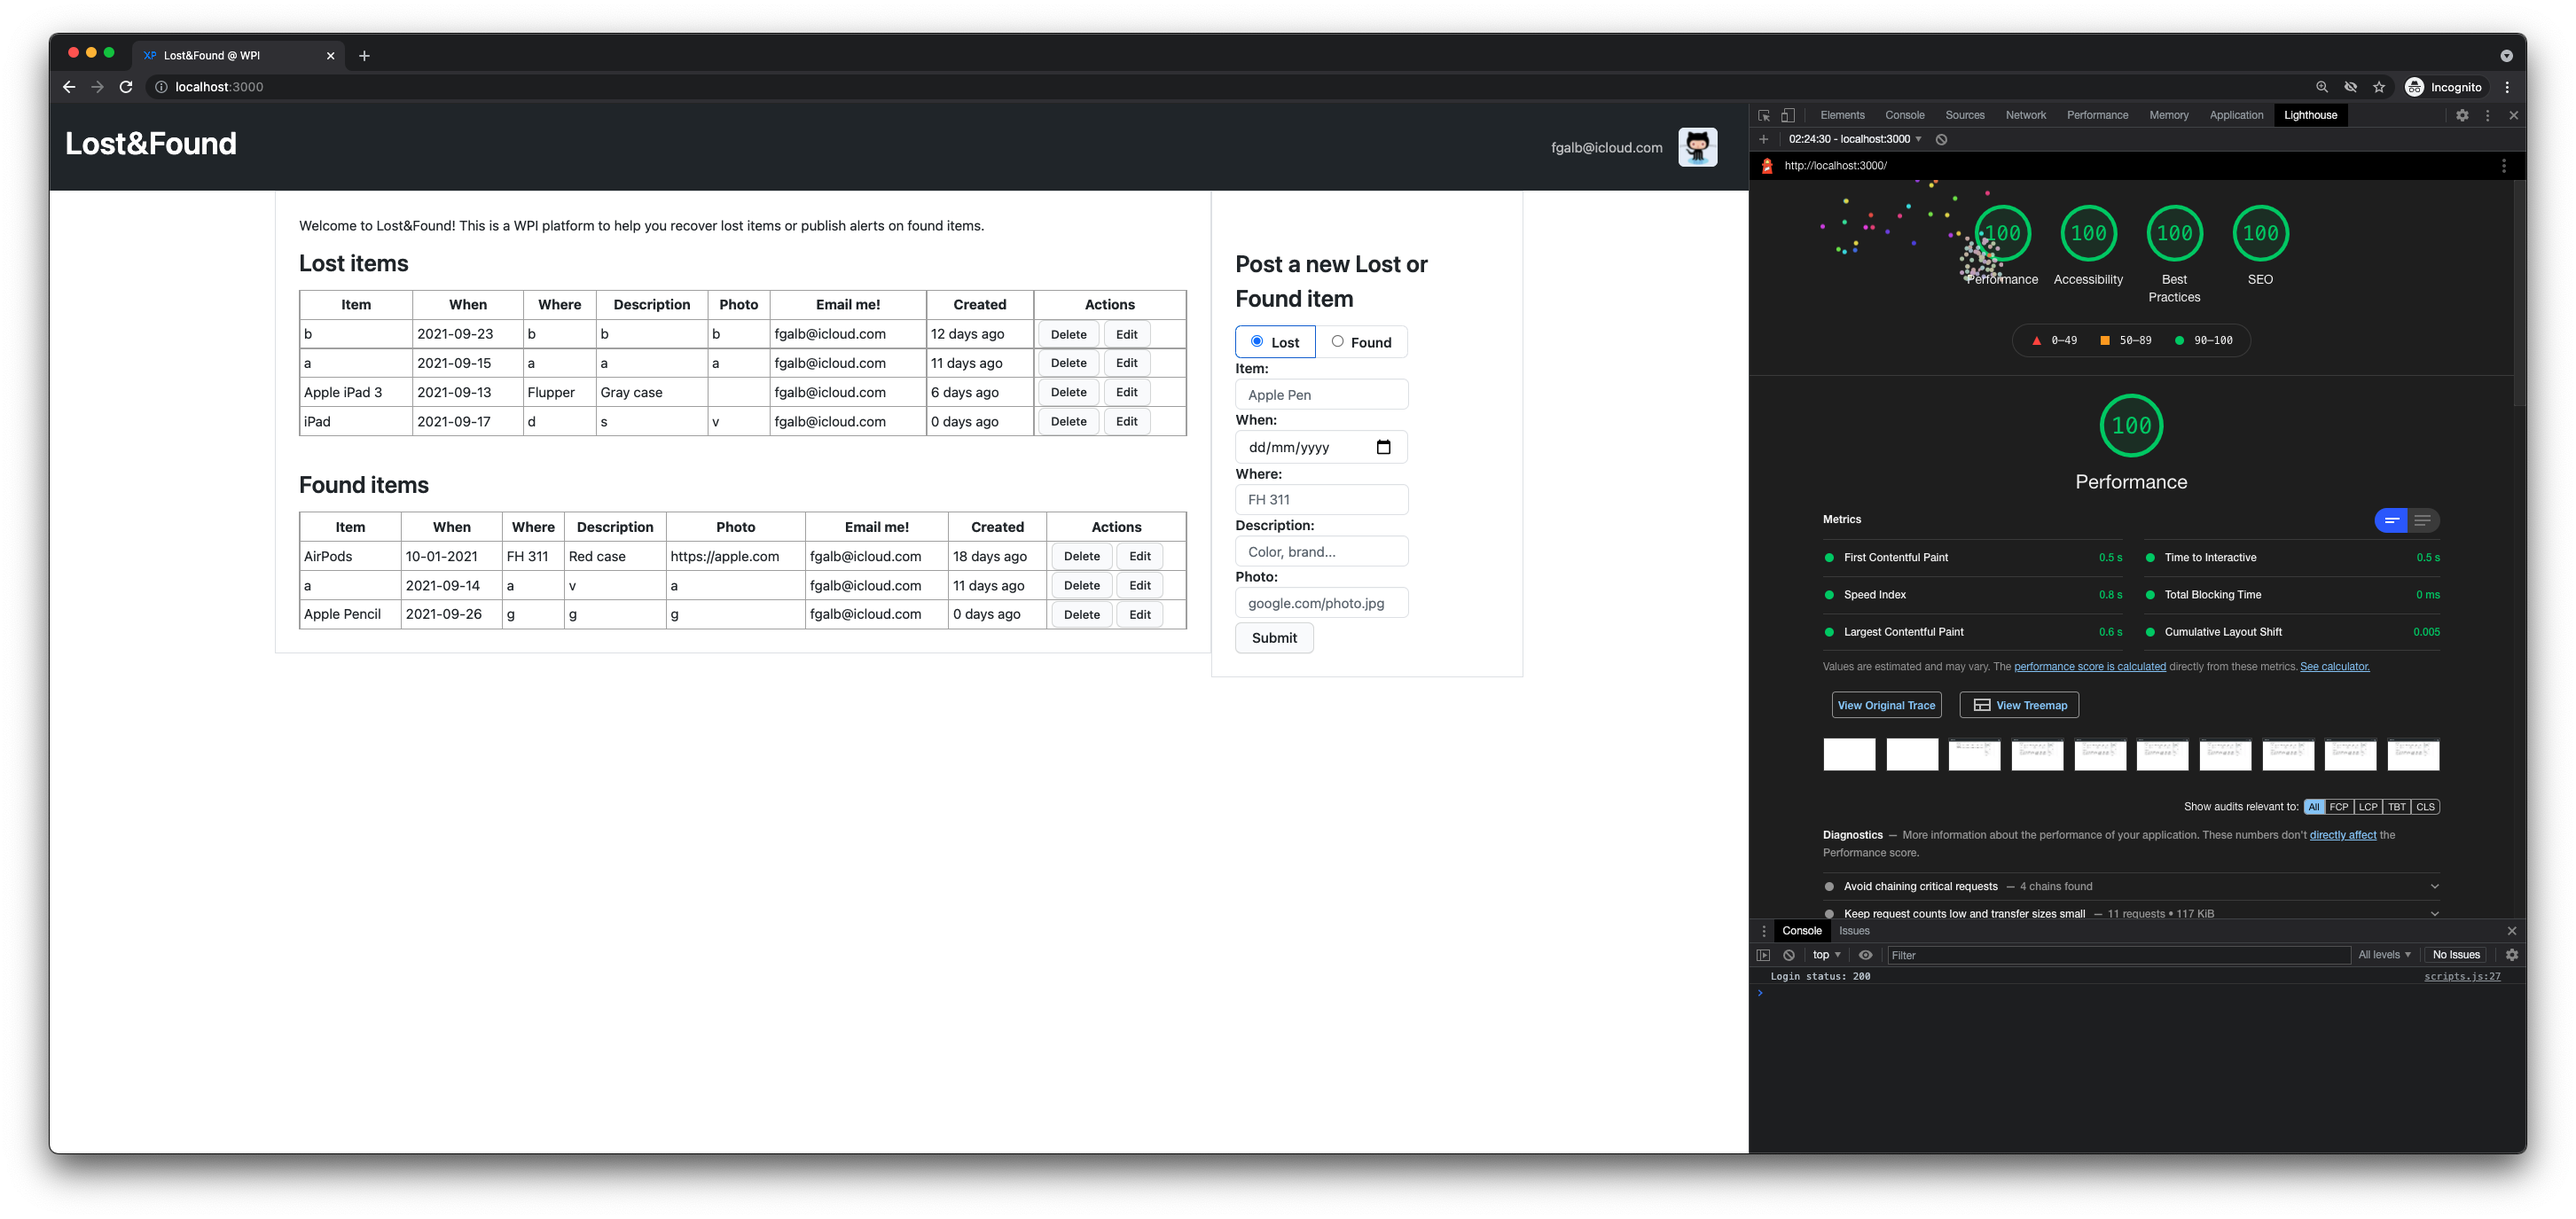
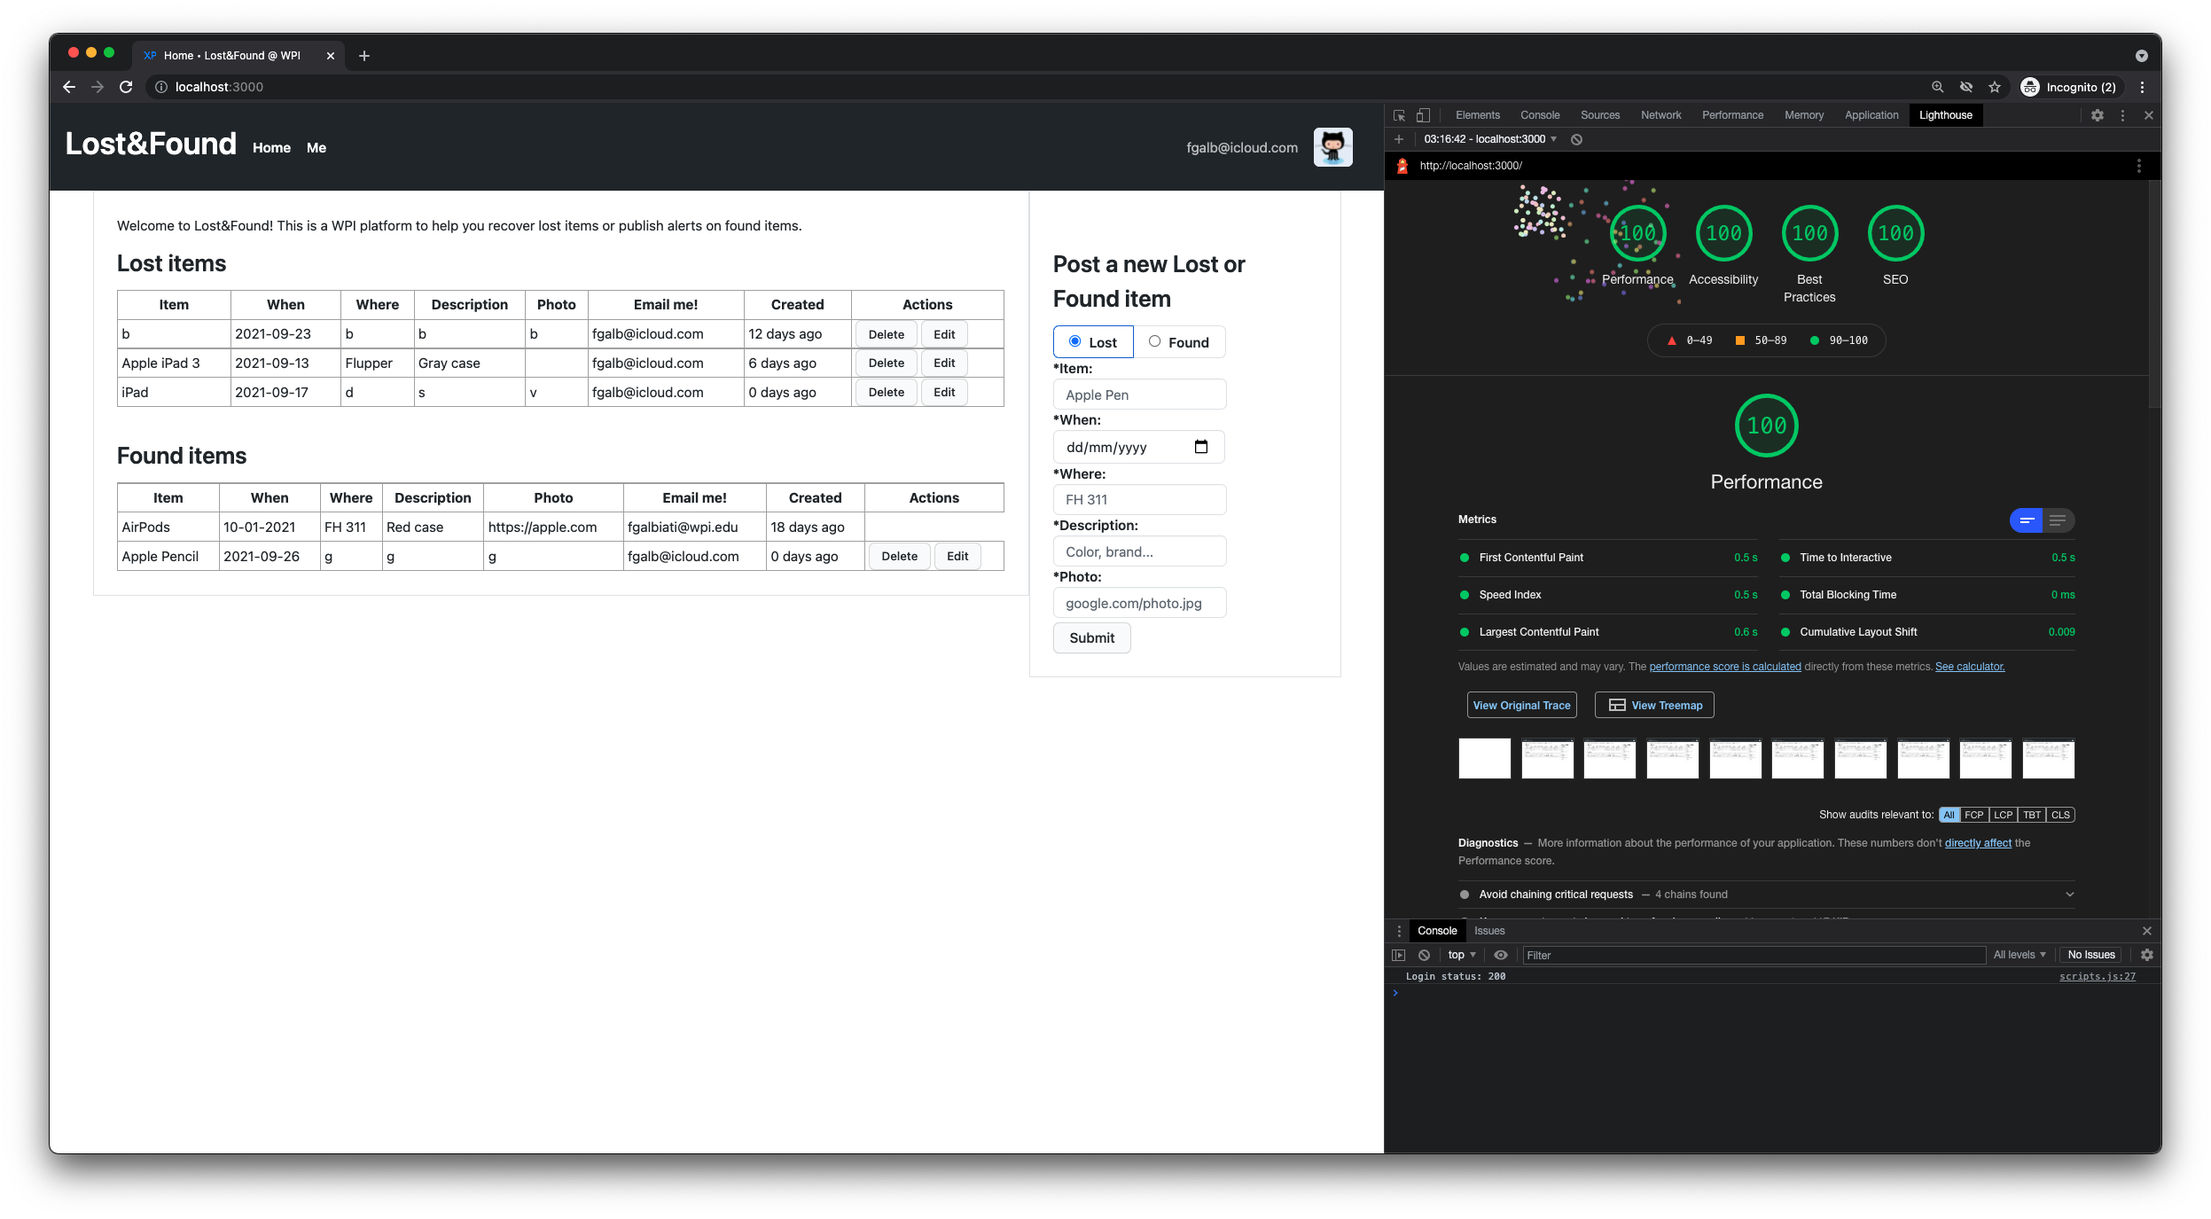
Updated readme, added /me page, and confirmed lighthouse

diff --git a/private/yourdata.html b/private/yourdata.html
@@ -1,0 +1,72 @@
+<!doctype html>
+<html lang="en">
+  <head>
+    <title>Home • Lost&Found @ WPI</title>
+    <meta charset="utf-8">
+    <link rel="preconnect" href="https://fonts.googleapis.com"> 
+    <link rel="preconnect" href="https://fonts.gstatic.com" crossorigin> 
+    <link href="https://fonts.googleapis.com/css2?family=Noto+Sans+JP:wght@300&display=swap" rel="stylesheet">
+    <link href="https://unpkg.com/@primer/css@^16.0.0/dist/primer.css" rel="stylesheet" />
+    <link rel="stylesheet" href="css/style.css">
+    <meta name="viewport" content="width=device-width, initial-scale=1">
+    <meta name="description" content="Worcester Polytechnic Institute's Lost and Found 
+                                      platform used to retrieve lost and found items around campus.">
+  </head>
+  <body>
+    <div class="Header">
+      <div class="Header-item">
+        <p class="h1 color-text-inverse">Lost&Found</p>
+      </div>
+      <div class="Header-item">
+        <a href="/" class="Header-link">Home</a>
+      </div>
+      <div class="Header-item">
+        <a href="/me" class="Header-link">Me</a>
+      </div>
+      <div class="Header-item Header-item--full">
+      </div>
+      <div id="username-box" class="Header-item">
+      </div>
+      <div class="Header-item">
+        <img class="avatar" height="40" alt="@octocat" src="https://github.com/octocat.png" width="40">
+      </div>
+    </div>
+    <div class="container-xl clearfix">
+      <div class="col-9 float-left border p-4">
+        <div id="info-section">
+          <p>Below are all the lost and found items created by you.</p>
+          <p id="error-box"></p>
+        </div>
+        <div class="logged-in">
+          <div id="lost-items-section">
+            <p class="h2">Lost items</p>
+            <table id="lostitems">
+              <tr>
+                <th>Item</th>
+                <th>When</th>
+                <th>Where</th>
+                <th>Description</th>
+                <th>Photo Link</th>
+                <th>Email me!</th>
+              </tr>
+            </table>
+          </div>
+          <div id="found-items-section" class="mt-5">
+            <p class="h2">Found items</p>
+            <table id="founditems">
+              <tr>
+                <th>Item</th>
+                <th>When</th>
+                <th>Where</th>
+                <th>Description</th>
+                <th>Photo Link</th>
+                <th>Email me!</th>
+              </tr>
+            </table>
+          </div>
+        </div>
+      </div>
+    </div>
+    <script src="js/scripts2.js"></script>
+  </body>
+</html>

diff --git a/public/js/scripts2.js b/public/js/scripts2.js
@@ -1,0 +1,62 @@
+let loggedInUser = undefined
+
+const getRequest = function(endpoint, data, callback) {
+  fetch( endpoint, {
+    method:'GET',
+    data 
+  })
+  .then( response => response.json())
+  .then( response => callback(response) )
+  return false
+}
+
+function getUserID() {
+  getRequest('/auth/getUserID', {}, (response) => {
+    console.log("Login status: " + response.status)
+    if (response.status === 200) {
+      loggedInUser = response.username
+      document.querySelector('#username-box').innerText = `${loggedInUser}`
+      els = document.querySelectorAll( '.logged-in' )
+      els.forEach(el => el.style.display = 'block')
+      getLostItems()
+      getFoundItems()
+    } else {
+      document.querySelector('#error-box').innerText = "Error! Could not fetch user details!"
+      document.querySelector('#error-box').classList.add('flash', 'mt-3', 'flash-error')
+    }
+  })
+}
+
+function getItems(listname) {
+  getRequest('/api/' + listname, {}, (data) => {
+    let table = ""
+    for (let info of data) {
+        if (info.emailme !== loggedInUser) {
+            continue;
+        }
+        let row = ""
+        row += `<td class="p-1 item">${info.item}</td>`
+        row += `<td class="p-1 when">${info.when}</td>`
+        row += `<td class="p-1 where">${info.where}</td>`
+        row += `<td class="p-1 description">${info.description}</td>`
+        row += `<td class="p-1 photo">${info.photo}</td>`
+        row += `<td class="p-1 emailme">${info.emailme}</td>`
+        row += `<td class="p-1 timestamp">${info.created} days ago</td>`
+        table += `<tr id="${info._id}">${row}</tr>`
+    }
+    let header = '<tr><th class="p-1">Item</th><th class="p-1">When</th><th class="p-1">Where</th><th class="p-1">Description</th><th class="p-1">Photo</th><th class="p-1">Email me!</th><th class="p-1">Created</th></tr>'
+    document.querySelector('#' + listname).innerHTML = header + table
+  })
+}
+
+function getFoundItems() {
+  getItems('founditems')
+}
+
+function getLostItems() {
+  getItems('lostitems')
+}
+
+window.onload = function() {
+  getUserID()
+}

diff --git a/private/main.html b/private/main.html
@@ -17,6 +17,12 @@
       <div class="Header-item">
         <p class="h1 color-text-inverse">Lost&Found</p>
       </div>
+      <div class="Header-item">
+        <a href="/" class="Header-link">Home</a>
+      </div>
+      <div class="Header-item">
+        <a href="/me" class="Header-link">Me</a>
+      </div>
       <div class="Header-item Header-item--full">
       </div>
       <div id="username-box" class="Header-item">

diff --git a/server.improved.js b/server.improved.js
@@ -61,6 +61,11 @@ app.get('/', validateLoginMiddleware, (req, res) => {
   res.sendFile(path.join(__dirname, '/private/main.html'));
 })
 
+app.get('/me', validateLoginMiddleware, (req, res) => {
+  console.log('Getting /me')
+  res.sendFile(path.join(__dirname, '/private/yourdata.html'));
+})
+
 
 
 

diff --git a/README.md b/README.md
@@ -7,17 +7,18 @@ Please log in with a GitHub account.
 ## Lost & Found
 
 The goal of the project is to store lost & found items in the database, and provide them to the frontend through Node.js. The platform allows only the creator of an item to modify/delete it.
-- challenges you faced in realizing the application
 - The app uses Passport.js with the GitHub authentication strategy to allow any user to log in. Once logged in, it will use the user's email as a unique ID for creating items.
 - I used Primer (https://primer.style) as the CSS framework for this project. I already had some experience with Bootstrap, and Primer is the framework used by the GitHub team. Therefore, I thought it would be nice to try it out and learn the foundations of GitHub's website UI.
   - The only modifications that I made are included in the `style.css` file. They were necessary to hide the "edit" form when not in use, and to create a table collapsed border.
 - The five Express middlewares used are cookie-session, Passport.js, serve-favicon, compression, morgan, and a custom `validateLoginMiddleware` to check if the user is logged in by checking the cookies.
-    - cookie-session allows storing information in the browser related to the logged in user. This info includes the email which is used as a unique identifier on the platform.
-    - Passport.js is used to provide single sign on through the GitHub Auth api to access the Lost&Found platform.
-    - serve-favicon allows serving a favicon - small logo image for the website usually displayed in the tab bar - to the user.
-    - compression allows compressing incoming and outgoing HTTP requests to minimize the bandwidth usage.
-    - morgan is a logger used to log any activity on the website. Specifically, it logs which webpages are visited, when, and by who.
-    - `validateLoginMiddleware` checks if the req.user variable is valid. This contains the cookie information of the logged in user. If it is invalid, the user is not logged in and is redirected to the GitHub login page.
+  - cookie-session allows storing information in the browser related to the logged in user. This info includes the email which is used as a unique identifier on the platform.
+  - Passport.js is used to provide single sign on through the GitHub Auth api to access the Lost&Found platform.
+  - serve-favicon allows serving a favicon - small logo image for the website usually displayed in the tab bar - to the user.
+  - compression allows compressing incoming and outgoing HTTP requests to minimize the bandwidth usage.
+  - morgan is a logger used to log any activity on the website. Specifically, it logs which webpages are visited, when, and by who.
+  - `validateLoginMiddleware` checks if the req.user variable is valid. This contains the cookie information of the logged in user. If it is invalid, the user is not logged in and is redirected to the GitHub login page.
+- I used normal text inputs, but also date, and radio button inputs
+- I created a /me page that filters only the elements create by the logged in user
 
 ## Technical Achievements
 - **Tech Achievement 1**: I used Passport.js to allow users to authenticate through GitHub.
